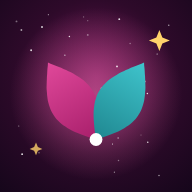
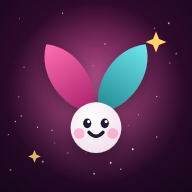
Conejito en ícono y apertura; juegos a pantalla completa
Claude-Session: https://claude.ai/code/session_01GWn33WEzikMLtTVB8Ci92h

diff --git a/index.html b/index.html
@@ -29,7 +29,7 @@ h1{font-family:var(--f-display);font-weight:700;font-size:clamp(1.7rem,6vw,2.3re
 h1 span{color:var(--berry)}
 header p{margin:0;color:var(--mute);font-weight:700;font-size:.95rem}
 .stage{
-  position:relative;width:min(100%,400px,calc((100svh - 150px) * 9 / 16));min-width:260px;
+  position:relative;width:min(100%,560px);min-width:260px;
   aspect-ratio:9/16;border-radius:26px;overflow:hidden;
   box-shadow:0 0 0 2px #ffffff14,0 18px 50px #00000066,0 0 60px #c42f7f33;
   background:var(--plum);
@@ -196,7 +196,11 @@ footer b{color:var(--cream);letter-spacing:.14em}
 .lvl small{color:var(--mute);font-weight:700}
 #toast{position:fixed;left:50%;bottom:calc(24px + env(safe-area-inset-bottom,0px));transform:translateX(-50%);z-index:30;background:linear-gradient(135deg,#C42F7F,#E04A98);color:var(--cream);font-family:var(--f-display);font-weight:600;font-size:1.05rem;padding:12px 22px;border-radius:999px;box-shadow:0 10px 30px #000a;max-width:92vw;text-align:center}
 
-.stage.bub{aspect-ratio:360/520;width:min(100%,400px,calc((100svh - 150px) * 360 / 520))}
+.stage.bub{aspect-ratio:360/520;width:min(100%,560px)}
+body.play{padding-inline:6px;padding-block:8px 12px;gap:8px}
+body.play .top{width:min(100%,560px)}
+body.play .module{width:min(100%,560px)}
+body.play .stage{border-radius:20px}
 .sgrid{display:grid;grid-template-columns:repeat(9,1fr);gap:3px;width:100%}
 .sc{aspect-ratio:1;padding:0;font-family:var(--f-body);font-weight:800;font-size:clamp(.8rem,3.8vw,1.05rem);color:var(--cream);background:#ffffff12;border:0;border-radius:8px;cursor:pointer;display:grid;place-items:center}
 .sc:focus-visible{outline:3px solid var(--gold);outline-offset:1px}
@@ -219,8 +223,8 @@ footer b{color:var(--cream);letter-spacing:.14em}
 #intro .st{position:absolute;border-radius:50%;background:#fff;opacity:0;animation:itw2 3s ease-in-out infinite}
 @keyframes itw2{0%,100%{opacity:0;transform:scale(.4)}50%{opacity:.85;transform:scale(1)}}
 #intro .lf{transform-box:fill-box;transform-origin:50% 100%;opacity:0;transform:scale(0)}
-#intro .l1{animation:igrow 1s .55s cubic-bezier(.2,1.4,.4,1) forwards}
-#intro .l2{animation:igrow 1s .78s cubic-bezier(.2,1.4,.4,1) forwards}
+#intro .l1{animation:igrow 1s .4s cubic-bezier(.2,1.4,.4,1) forwards}
+#intro .l2{animation:igrow 1s .62s cubic-bezier(.2,1.4,.4,1) forwards}
 @keyframes igrow{0%{opacity:0;transform:scale(0) rotate(0)}100%{opacity:1;transform:scale(1) rotate(0)}}
 #intro .face{opacity:0;transform-box:fill-box;transform-origin:center;animation:ipop .6s 1s cubic-bezier(.2,1.6,.4,1) forwards}
 @keyframes ipop{0%{opacity:0;transform:scale(.3)}100%{opacity:1;transform:scale(1)}}
@@ -259,7 +263,7 @@ footer b{color:var(--cream);letter-spacing:.14em}
 
 <div id="intro" role="button" tabindex="0" aria-label="Entrar a Vivia Vuela">
   <div class="burst"></div><div class="sw"></div><i class="st" style="left:90%;top:26%;animation-delay:0.3s;width:2px;height:2px"></i><i class="st" style="left:76%;top:84%;animation-delay:0.6s;width:2px;height:2px"></i><i class="st" style="left:15%;top:73%;animation-delay:2.1s;width:2px;height:2px"></i><i class="st" style="left:75%;top:10%;animation-delay:1.9s;width:3px;height:3px"></i><i class="st" style="left:66%;top:90%;animation-delay:1.6s;width:2px;height:2px"></i><i class="st" style="left:43%;top:62%;animation-delay:1.8s;width:2px;height:2px"></i><i class="st" style="left:61%;top:49%;animation-delay:0.9s;width:3px;height:3px"></i><i class="st" style="left:26%;top:92%;animation-delay:2.3s;width:2px;height:2px"></i><i class="st" style="left:13%;top:76%;animation-delay:0.9s;width:2px;height:2px"></i><i class="st" style="left:66%;top:46%;animation-delay:2.2s;width:3px;height:3px"></i><i class="st" style="left:39%;top:80%;animation-delay:2.9s;width:2px;height:2px"></i><i class="st" style="left:18%;top:68%;animation-delay:1.3s;width:3px;height:3px"></i><i class="st" style="left:46%;top:22%;animation-delay:2.8s;width:2px;height:2px"></i><i class="st" style="left:56%;top:8%;animation-delay:2.9s;width:2px;height:2px"></i><i class="st" style="left:12%;top:74%;animation-delay:1.7s;width:2px;height:2px"></i><i class="st" style="left:43%;top:46%;animation-delay:2.1s;width:2px;height:2px"></i><i class="st" style="left:79%;top:66%;animation-delay:1.7s;width:2px;height:2px"></i><i class="st" style="left:61%;top:11%;animation-delay:2.5s;width:2px;height:2px"></i><i class="st" style="left:37%;top:63%;animation-delay:2.1s;width:2px;height:2px"></i><i class="st" style="left:11%;top:10%;animation-delay:2.2s;width:2px;height:2px"></i><i class="st" style="left:42%;top:85%;animation-delay:1.7s;width:3px;height:3px"></i><i class="st" style="left:90%;top:60%;animation-delay:0.9s;width:2px;height:2px"></i><i class="st" style="left:52%;top:88%;animation-delay:1.0s;width:2px;height:2px"></i><i class="st" style="left:62%;top:48%;animation-delay:0.5s;width:3px;height:3px"></i><i class="st" style="left:17%;top:66%;animation-delay:0.2s;width:2px;height:2px"></i><i class="st" style="left:39%;top:19%;animation-delay:2.2s;width:2px;height:2px"></i><i class="st" style="left:53%;top:53%;animation-delay:2.8s;width:3px;height:3px"></i><i class="st" style="left:66%;top:13%;animation-delay:0.5s;width:3px;height:3px"></i><i class="st" style="left:54%;top:73%;animation-delay:0.8s;width:3px;height:3px"></i><i class="st" style="left:20%;top:58%;animation-delay:2.6s;width:2px;height:2px"></i><i class="st" style="left:38%;top:93%;animation-delay:1.2s;width:3px;height:3px"></i><i class="st" style="left:48%;top:90%;animation-delay:2.7s;width:3px;height:3px"></i><i class="st" style="left:32%;top:22%;animation-delay:0.2s;width:2px;height:2px"></i><i class="st" style="left:22%;top:32%;animation-delay:2.0s;width:2px;height:2px"></i><i class="st" style="left:4%;top:65%;animation-delay:2.5s;width:2px;height:2px"></i><i class="st" style="left:26%;top:36%;animation-delay:0.8s;width:2px;height:2px"></i><i class="st" style="left:21%;top:56%;animation-delay:1.6s;width:3px;height:3px"></i><i class="st" style="left:81%;top:75%;animation-delay:1.0s;width:2px;height:2px"></i><i class="st" style="left:19%;top:91%;animation-delay:2.6s;width:2px;height:2px"></i><i class="st" style="left:82%;top:86%;animation-delay:2.0s;width:2px;height:2px"></i><i class="st" style="left:9%;top:61%;animation-delay:2.7s;width:2px;height:2px"></i><i class="st" style="left:90%;top:74%;animation-delay:1.2s;width:3px;height:3px"></i><i class="st" style="left:54%;top:53%;animation-delay:0.3s;width:2px;height:2px"></i><i class="st" style="left:84%;top:54%;animation-delay:0.2s;width:3px;height:3px"></i><i class="st" style="left:11%;top:29%;animation-delay:1.3s;width:2px;height:2px"></i><i class="st" style="left:17%;top:46%;animation-delay:1.8s;width:3px;height:3px"></i><i class="sp" style="left:22%;top:28%;animation-delay:1.4s"></i><i class="sp" style="left:78%;top:24%;animation-delay:1.9s"></i><i class="sp" style="left:15%;top:52%;animation-delay:2.3s"></i><i class="sp" style="left:86%;top:50%;animation-delay:1.6s"></i><i class="sp" style="left:32%;top:70%;animation-delay:2.6s"></i><i class="sp" style="left:70%;top:68%;animation-delay:2.1s"></i>
-  <svg class="mk" viewBox="-44 -70 88 78" aria-hidden="true"><g class="lg"><g transform="rotate(-32)"><path class="lf l1" d="M0.0 -0.0 L1.3 -1.6 L2.6 -3.1 L3.9 -4.6 L5.2 -6.2 L6.4 -7.8 L7.5 -9.3 L8.6 -10.8 L9.7 -12.4 L10.7 -14.0 L11.6 -15.5 L12.4 -17.1 L13.1 -18.6 L13.8 -20.2 L14.4 -21.7 L14.8 -23.2 L15.2 -24.8 L15.5 -26.3 L15.7 -27.9 L15.7 -29.4 L15.7 -31.0 L15.6 -32.6 L15.4 -34.1 L15.1 -35.6 L14.7 -37.2 L14.2 -38.8 L13.7 -40.3 L13.0 -41.9 L12.3 -43.4 L11.5 -44.9 L10.7 -46.5 L9.8 -48.1 L8.8 -49.6 L7.8 -51.1 L6.7 -52.7 L5.7 -54.2 L4.5 -55.8 L3.4 -57.4 L2.3 -58.9 L1.1 -60.4 L0.0 -62.0 L-0.0 -62.0 L-1.1 -60.4 L-2.3 -58.9 L-3.4 -57.4 L-4.5 -55.8 L-5.7 -54.2 L-6.7 -52.7 L-7.8 -51.1 L-8.8 -49.6 L-9.8 -48.1 L-10.7 -46.5 L-11.5 -44.9 L-12.3 -43.4 L-13.0 -41.9 L-13.7 -40.3 L-14.2 -38.8 L-14.7 -37.2 L-15.1 -35.6 L-15.4 -34.1 L-15.6 -32.6 L-15.7 -31.0 L-15.7 -29.4 L-15.7 -27.9 L-15.5 -26.3 L-15.2 -24.8 L-14.8 -23.2 L-14.4 -21.7 L-13.8 -20.2 L-13.1 -18.6 L-12.4 -17.1 L-11.6 -15.5 L-10.7 -14.0 L-9.7 -12.4 L-8.6 -10.8 L-7.5 -9.3 L-6.4 -7.8 L-5.2 -6.2 L-3.9 -4.6 L-2.6 -3.1 L-1.3 -1.6 L-0.0 -0.0Z" fill="#C42F7F"/></g><g transform="rotate(32)"><path class="lf l2" d="M0.0 -0.0 L1.3 -1.6 L2.6 -3.1 L3.9 -4.6 L5.2 -6.2 L6.4 -7.8 L7.5 -9.3 L8.6 -10.8 L9.7 -12.4 L10.7 -14.0 L11.6 -15.5 L12.4 -17.1 L13.1 -18.6 L13.8 -20.2 L14.4 -21.7 L14.8 -23.2 L15.2 -24.8 L15.5 -26.3 L15.7 -27.9 L15.7 -29.4 L15.7 -31.0 L15.6 -32.6 L15.4 -34.1 L15.1 -35.6 L14.7 -37.2 L14.2 -38.8 L13.7 -40.3 L13.0 -41.9 L12.3 -43.4 L11.5 -44.9 L10.7 -46.5 L9.8 -48.1 L8.8 -49.6 L7.8 -51.1 L6.7 -52.7 L5.7 -54.2 L4.5 -55.8 L3.4 -57.4 L2.3 -58.9 L1.1 -60.4 L0.0 -62.0 L-0.0 -62.0 L-1.1 -60.4 L-2.3 -58.9 L-3.4 -57.4 L-4.5 -55.8 L-5.7 -54.2 L-6.7 -52.7 L-7.8 -51.1 L-8.8 -49.6 L-9.8 -48.1 L-10.7 -46.5 L-11.5 -44.9 L-12.3 -43.4 L-13.0 -41.9 L-13.7 -40.3 L-14.2 -38.8 L-14.7 -37.2 L-15.1 -35.6 L-15.4 -34.1 L-15.6 -32.6 L-15.7 -31.0 L-15.7 -29.4 L-15.7 -27.9 L-15.5 -26.3 L-15.2 -24.8 L-14.8 -23.2 L-14.4 -21.7 L-13.8 -20.2 L-13.1 -18.6 L-12.4 -17.1 L-11.6 -15.5 L-10.7 -14.0 L-9.7 -12.4 L-8.6 -10.8 L-7.5 -9.3 L-6.4 -7.8 L-5.2 -6.2 L-3.9 -4.6 L-2.6 -3.1 L-1.3 -1.6 L-0.0 -0.0Z" fill="#2A9AA1"/></g><circle class="dot" r="4.2" fill="#fff"/></g></svg>
+  <svg class="mk" viewBox="-40 -62 80 80" aria-hidden="true"><defs><linearGradient id="ila" x1="0" y1="1" x2="0" y2="0"><stop offset="0" stop-color="#A81F6B"/><stop offset="1" stop-color="#E24A98"/></linearGradient><linearGradient id="ilb" x1="0" y1="1" x2="0" y2="0"><stop offset="0" stop-color="#1F8790"/><stop offset="1" stop-color="#43C7CF"/></linearGradient></defs><g transform="translate(0,12)"><g transform="translate(-2,-6) rotate(-34) scale(1.05)"><path class="lf l1" d="M0 0C-11 -9 -12 -30 0 -40C12 -30 11 -9 0 0Z" fill="url(#ila)"/></g><g transform="translate(2,-6) rotate(34) scale(1.05)"><path class="lf l2" d="M0 0C-11 -9 -12 -30 0 -40C12 -30 11 -9 0 0Z" fill="url(#ilb)"/></g><g class="face"><circle cx="0" cy="2" r="13" fill="#FBF7F9"/><ellipse cx="-4.5" cy="0" rx="2" ry="2.4" fill="#1F1A2E"/><ellipse cx="4.5" cy="0" rx="2" ry="2.4" fill="#1F1A2E"/><circle cx="-3.9" cy="-.9" r=".7" fill="#fff"/><circle cx="5.1" cy="-.9" r=".7" fill="#fff"/><path d="M-3.4 4.4Q0 8 3.4 4.4" stroke="#1F1A2E" stroke-width="1.6" fill="none" stroke-linecap="round"/><circle cx="-8.4" cy="5" r="2.6" fill="#E04A98" opacity=".4"/><circle cx="8.4" cy="5" r="2.6" fill="#E04A98" opacity=".4"/></g></g></svg>
   <div class="wm" aria-hidden="true"><span style="animation-delay:1.30s">V</span><span style="animation-delay:1.37s">i</span><span style="animation-delay:1.44s">v</span><span style="animation-delay:1.51s">i</span><span style="animation-delay:1.58s">a</span><span style="animation-delay:1.65s">&nbsp;</span><span class="b" style="animation-delay:1.72s">V</span><span class="b" style="animation-delay:1.79s">u</span><span class="b" style="animation-delay:1.86s">e</span><span class="b" style="animation-delay:1.93s">l</span><span class="b" style="animation-delay:2.00s">a</span></div>
   <div class="tl">Minijuegos para jugar, practicar y relajarte</div>
   <div class="by"><i></i><small>Hecho por</small><b>Bluvia</b></div>
@@ -472,6 +476,11 @@ function tone(f,d,type,v,mult){
 function sGood(){ tone(660,.12,'triangle',.1,1.3); setTimeout(function(){tone(990,.2,'triangle',.1,1.1);},90); }
 function sBad(){ tone(220,.25,'sawtooth',.06,.6); }
 function sFlip(){ tone(520,.06,'sine',.06,1.2); }
+function fitStage(stg,W,minH,maxH){
+  var aw=Math.min(window.innerWidth-12,560), ah=(window.innerHeight||700)-86, H=Math.round(W*ah/aw);
+  H=Math.max(minH,Math.min(maxH,H)); var w=Math.min(aw,ah*W/H);
+  stg.style.width=Math.floor(w)+'px'; stg.style.aspectRatio=W+'/'+H; return H;
+}
 function shuffle(a){ return a.map(function(x){return [Math.random(),x];}).sort(function(p,q){return p[0]-q[0];}).map(function(p){return p[1];}); }
 
 var SK=[{n:'Clásica',a:'#C42F7F',b:'#2A9AA3',need:0},{n:'Sol',a:'#FF8A3D',b:'#FFD36B',need:80},{n:'Aurora',a:'#7C5CFF',b:'#37E0B5',need:200}];
@@ -558,6 +567,7 @@ function go(name){
   if(name==='fly') Fly.enter();
   if(name==='memory') Mem.start();
   if(name==='english') English.show();
+  document.body.classList.toggle('play',name==='fly'||name==='bubbles'||name==='zen');
   if(name==='cine') Cine.show();
   if(name==='acert') Acert.show();
   if(name==='duelo') Duelo.show();
@@ -1074,7 +1084,9 @@ var Duelo=(function(){
 /* ===== jardín en calma ===== */
 var Zen=(function(){
   var cv=$('znCanvas'), cx=cv.getContext('2d'), W=360, H=520, raf=0, run=false, fl=[], pet=[], ff=[], n=0, last=0, pi=0;
-  cv.width=W; cv.height=H;
+  var zst=$('znStage');
+  function zfit(){ H=fitStage(zst,W,520,860); cv.width=W; cv.height=H; }
+  zfit(); window.addEventListener('resize',zfit);
   var PH=['Respirá hondo. No hay apuro.','Cada flor tarda lo que tarda.','Soltá los hombros.','Este momento es tuyo.','Despacito también se llega.','Mirá cómo florece sin esfuerzo.','Todo pasa, todo florece.','Una cosa a la vez.'];
   var NOTES=[261.6,293.7,329.6,392,440,523.3,587.3,659.3];
   var COLS=[['#FF9CC8','#FFD36B'],['#B79CFF','#FFF2A8'],['#7FE3D6','#FFFFFF'],['#FFB38A','#FFE9A8'],['#F36CAE','#FFD36B']];
@@ -1112,7 +1124,7 @@ var Zen=(function(){
     if(!fl.length){ cx.fillStyle='#FFFFFFCC'; cx.font='700 16px Nunito, sans-serif'; cx.textAlign='center'; cx.fillText('Tocá la pantalla para plantar una flor',W/2,H/2); }
     raf=requestAnimationFrame(draw);
   }
-  function enter(){ if(run) return; run=true; last=performance.now(); if(!$('znPhrase').textContent) $('znPhrase').textContent=PH[0]; raf=requestAnimationFrame(draw); }
+  function enter(){ zfit(); if(run) return; run=true; last=performance.now(); if(!$('znPhrase').textContent) $('znPhrase').textContent=PH[0]; raf=requestAnimationFrame(draw); }
   var amb=null, birdT=0;
   function stopAmb(){ clearInterval(birdT); birdT=0; if(amb){ try{ amb.g.gain.setTargetAtTime(0,ac.currentTime,.2); var a=amb; setTimeout(function(){ try{ a.src.stop(); if(a.lfo) a.lfo.stop(); }catch(e){} },900); }catch(e){} amb=null; } }
   function startAmb(kind){
@@ -1343,7 +1355,7 @@ var Bub=(function(){
   var reduce=window.matchMedia&&window.matchMedia('(prefers-reduced-motion: reduce)').matches;
   var active=false, state='menu', bs=[], ps=[], tx=[], score=0, left=30, spT=0, t=0, last=0, combo=1, comboT=0, best=parseInt(Store.get('lumi-best-bub','0'),10)||0;
   var COL=['#FF6FB0','#2A9AA3','#9C8CFF','#FF8A3D','#7FE0E6','#E04A98'];
-  function resize(){ var r=stg.getBoundingClientRect(); if(!r.width) return; cv.width=Math.round(r.width*dpr); cv.height=Math.round(r.height*dpr); scl=cv.width/W; }
+  function resize(){ H=fitStage(stg,W,520,860); var r=stg.getBoundingClientRect(); if(!r.width) return; cv.width=Math.round(r.width*dpr); cv.height=Math.round(r.height*dpr); scl=cv.width/W; }
   window.addEventListener('resize',resize);
   function reset(){ bs=[]; ps=[]; tx=[]; score=0; left=30; spT=.2; combo=1; comboT=0; }
   function spawn(){
@@ -1423,6 +1435,7 @@ var Fly=(function(){
   var dpr=Math.min(window.devicePixelRatio||1,2.5), scale=1;
 
   function resize(){
+    H=fitStage(stage,W,640,900); if(P) P.y=H-120;
     var r=stage.getBoundingClientRect();
     cv.width=Math.round(r.width*dpr); cv.height=Math.round(r.height*dpr);
     scale=cv.width/W;

diff --git a/sw.js b/sw.js
@@ -1,4 +1,4 @@
-const C='vivia-vuela-v3';
+const C='vivia-vuela-v4';
 self.addEventListener('install',e=>{e.waitUntil(caches.open(C).then(c=>c.addAll(['./','index.html','icon-192.png'])).then(()=>self.skipWaiting()));});
 self.addEventListener('activate',e=>{e.waitUntil(caches.keys().then(k=>Promise.all(k.filter(x=>x!==C).map(x=>caches.delete(x)))).then(()=>self.clients.claim()));});
 self.addEventListener('fetch',e=>{ if(e.request.method!=='GET') return;
